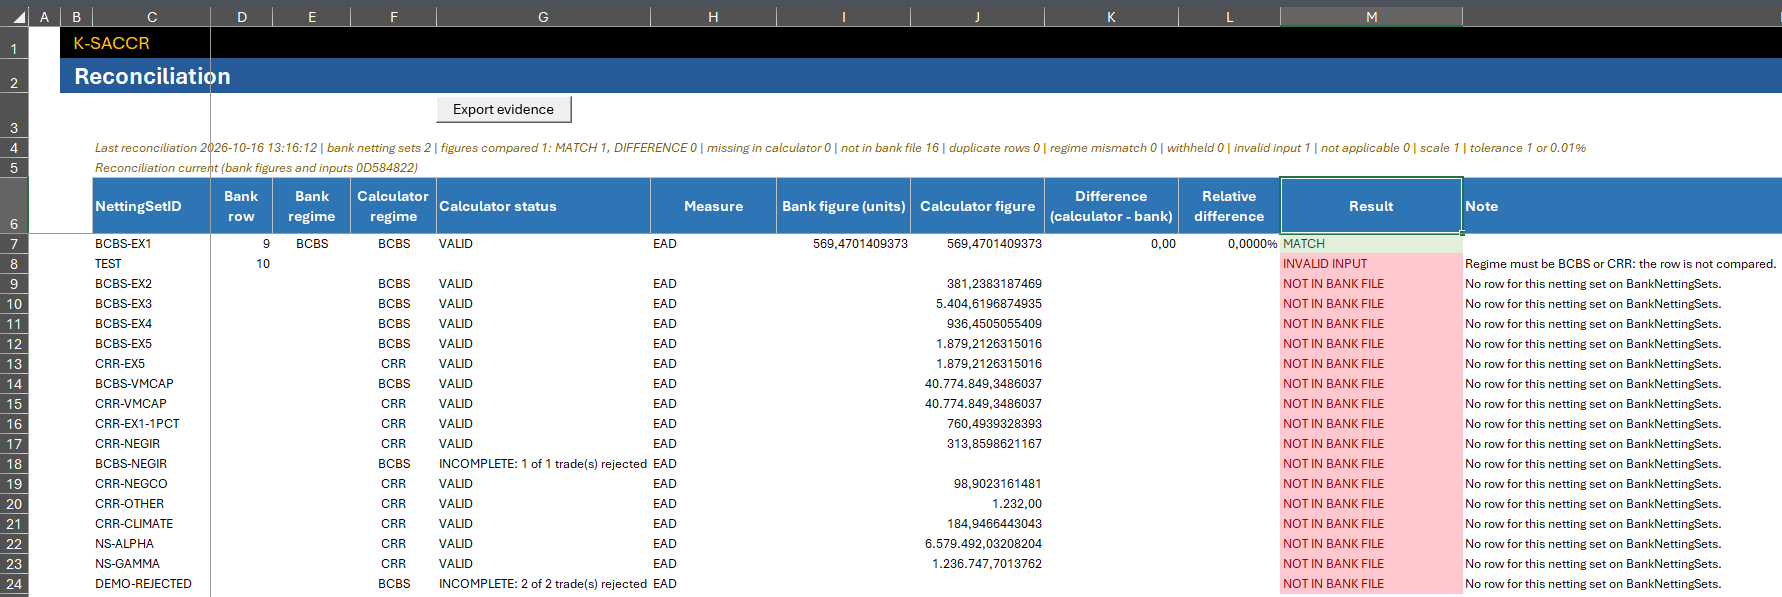
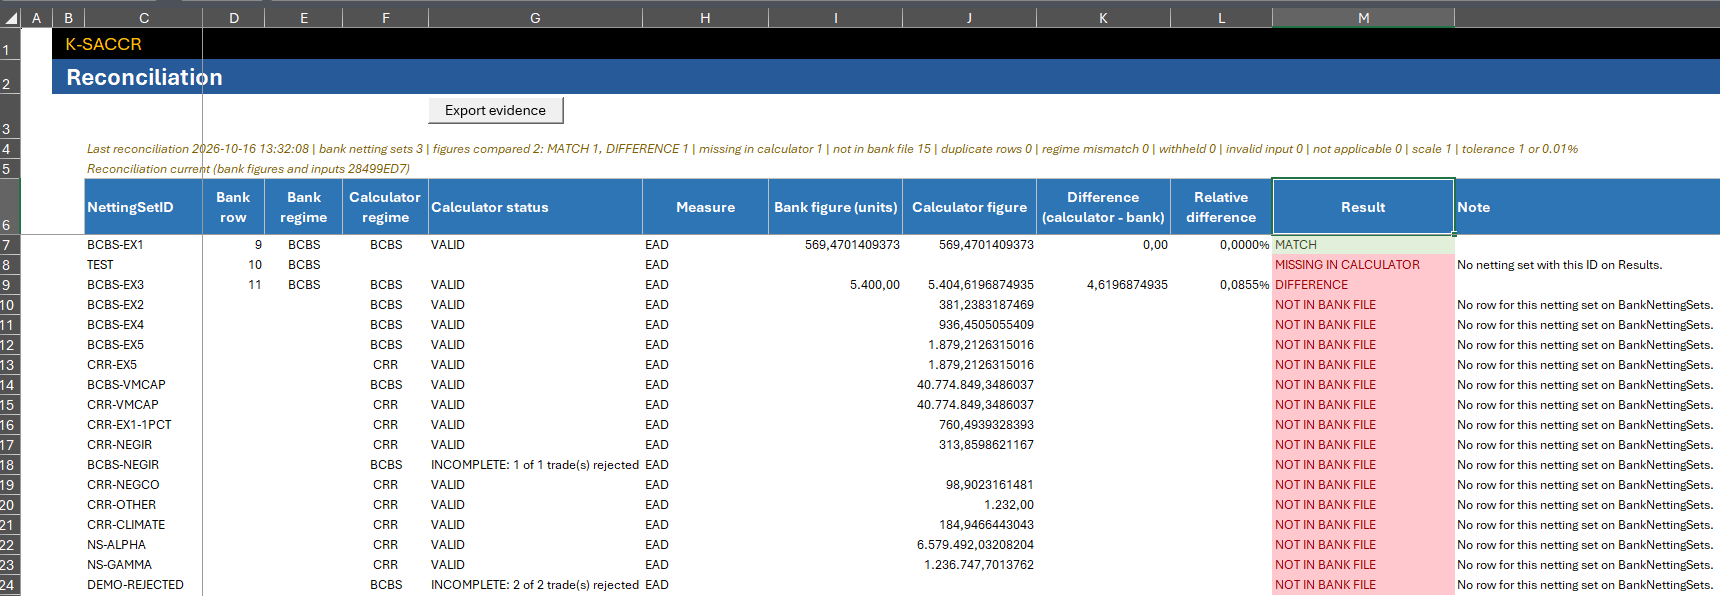
Replace the reconciliation screenshots with one showing every outcome
The owner retook BankNettingSets and Reconciliation with three bank
rows: BCBS-EX1 at the calculator's EAD (MATCH), BCBS-EX3 at 5,400
against 5,404.62 (DIFFERENCE, 0.0855%), and an unknown netting set
(MISSING IN CALCULATOR); the other netting sets are NOT IN BANK FILE.
The previous images showed no DIFFERENCE. Cropped and reduced to a
256-colour palette: 46 and 16 KB.

The README alt texts and SCREENSHOTS_SOURCES.md describe the new
images.

Validated: python tools/check.py (all gates PASS); both images
inspected. Docs only; no VBA or template change.

Changed region(s): [[0.0, 0.0, 1.0, 1.0], [0.493, 0.453, 0.6779, 0.755], [0.5238, 0.7852, 0.6163, 0.9664]]

diff --git a/docs/assets/SCREENSHOTS_SOURCES.md b/docs/assets/SCREENSHOTS_SOURCES.md
@@ -13,7 +13,7 @@ took them in Excel for Windows on 2026-10-16.
 | `SACCR_TradeCalc_Inputs.png`, `SACCR_TradeCalc_AddOns.png` | Every trade-level quantity of that run: dates, duration, adjusted notional and delta, then maturity factors, effective notionals and add-on |
 | `SACCR_HedgingSets.png`, `SACCR_Buckets.png` | The hedging-set and bucket detail of that run |
 | `SACCR_Checks.png` | The errors of that run: excluded trades and withheld netting sets |
-| `SACCR_BankNettingSets.png`, `SACCR_Reconciliation.png` | A reconciliation: the bank's EAD for BCBS-EX1, copied from Results (MATCH), a row without a regime (INVALID INPUT), and the netting sets not in the bank file |
+| `SACCR_BankNettingSets.png`, `SACCR_Reconciliation.png` | A reconciliation: the bank's EAD for BCBS-EX1, copied from Results (MATCH), 5,400 for BCBS-EX3 (DIFFERENCE), a netting set the calculator does not have (MISSING IN CALCULATOR), and the netting sets not in the bank file |
 | `SACCR_TestCatalogue.png`, `SACCR_FormulaTest.png` | The reference-test catalogue and the worksheet-function unit tests, all passing |
 
 The input sheets show the template's own content; the output sheets show a run

diff --git a/README.md b/README.md
@@ -373,13 +373,13 @@ netting set whose EAD is withheld as a result:
 
 <p align="center">
   <img width="100%"
-       alt="BankNettingSets sheet: amount scale, absolute and relative tolerance, and one row per netting set with the bank's regime and figures"
+       alt="BankNettingSets sheet: amount scale, absolute and relative tolerance, and the bank's EAD for BCBS-EX1 and BCBS-EX3 and a row for an unknown netting set"
        src="docs/assets/SACCR_BankNettingSets.png">
 </p>
 
 <p align="center">
   <img width="100%"
-       alt="Reconciliation sheet: the bank's EAD for BCBS-EX1 matches the calculator, a bank row without a regime is INVALID INPUT, and every other netting set is NOT IN BANK FILE, each with its note"
+       alt="Reconciliation sheet: the bank's EAD for BCBS-EX1 is a MATCH, for BCBS-EX3 a DIFFERENCE of 4.62 (0.0855%), an unknown bank netting set is MISSING IN CALCULATOR, and every other netting set is NOT IN BANK FILE, each with its note"
        src="docs/assets/SACCR_Reconciliation.png">
 </p>
 
